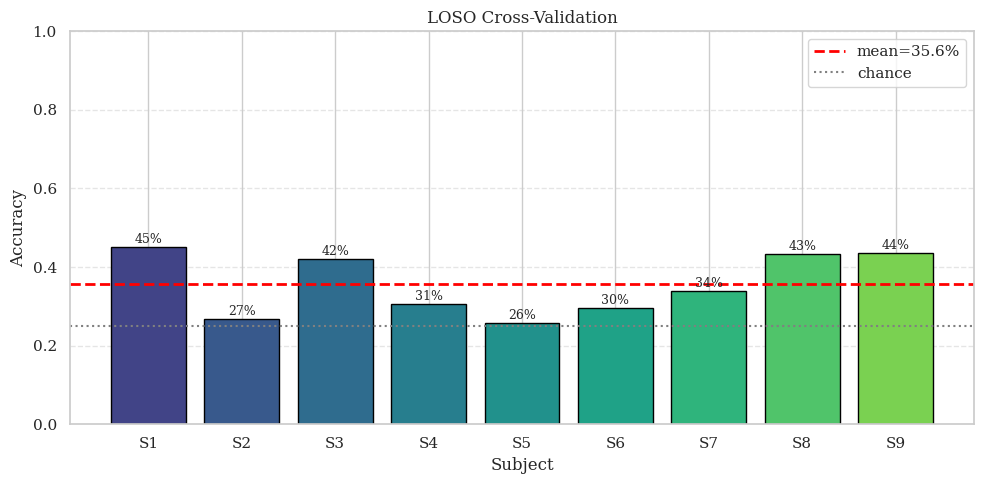
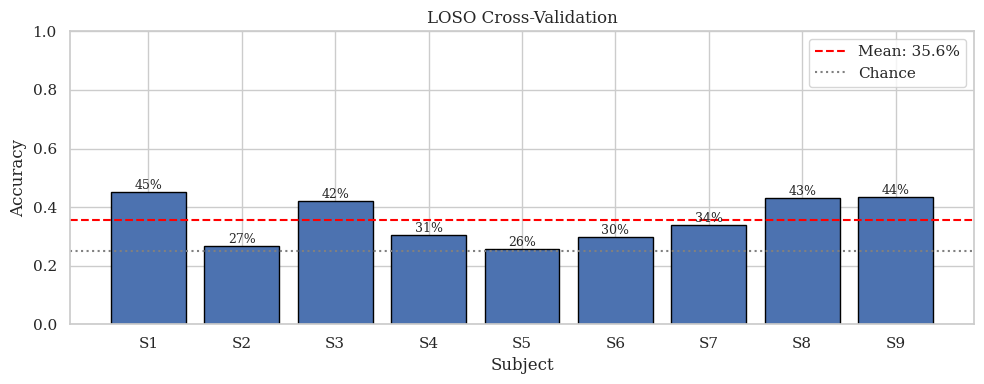
clean up the code and change pngs

diff --git a/main.py b/main.py
@@ -1,90 +1,88 @@
-"""
-Riemannian Motor Imagery Decoder - 4-class EEG classification
-BNCI2014_001 dataset, Tangent Space + LogReg
-"""
-
 import numpy as np
 import matplotlib.pyplot as plt
 import seaborn as sns
-import warnings
 from sklearn.pipeline import make_pipeline
 from sklearn.linear_model import LogisticRegression
-from sklearn.model_selection import train_test_split, cross_val_score, GridSearchCV
-from sklearn.metrics import (accuracy_score, confusion_matrix, classification_report,
-                             roc_auc_score, roc_curve, auc)
-from sklearn.preprocessing import LabelEncoder, StandardScaler, label_binarize
-from sklearn.base import BaseEstimator, TransformerMixin
-from sklearn.decomposition import PCA
+from sklearn.model_selection import train_test_split, GridSearchCV
+from sklearn.metrics import accuracy_score, confusion_matrix, roc_auc_score, roc_curve, auc
+from sklearn.preprocessing import LabelEncoder, StandardScaler, label_binarize, FunctionTransformer
 from moabb.datasets import BNCI2014_001
 from moabb.paradigms import MotorImagery
 from pyriemann.estimation import Covariances
 from pyriemann.tangentspace import TangentSpace
 
-warnings.filterwarnings("ignore")
+# Config
+SUBJECT_ID = 1
+TEST_SIZE = 0.2
+CV_FOLDS = 5
+C_GRID = [0.1, 1, 10, 100]
 
 
-class RawVector(BaseEstimator, TransformerMixin):
-    """Flatten trials for baseline"""
-    def fit(self, X, y=None): return self
-    def transform(self, X): return X.reshape(X.shape[0], -1)
+def get_baseline_pipeline():
+    """Euclidean baseline: flatten -> scale -> LR"""
+    return make_pipeline(
+        FunctionTransformer(lambda x: x.reshape(x.shape[0], -1)),
+        StandardScaler(),
+        LogisticRegression(max_iter=2000)
+    )
 
 
-def load_subject(subj_id):
+def get_riemann_pipeline():
+    """Riemannian: cov -> tangent space -> LR
+    OAS: shrinkage estimator, stable for high-dim EEG with limited samples
+    """
+    return make_pipeline(
+        Covariances(estimator='oas'),
+        TangentSpace(metric='riemann'),
+        LogisticRegression(max_iter=2000)
+    )
+
+
+def load_data(subj):
     dataset = BNCI2014_001()
     paradigm = MotorImagery(n_classes=4)
-    X, y, meta = paradigm.get_data(dataset=dataset, subjects=[subj_id])
+    X, y, meta = paradigm.get_data(dataset=dataset, subjects=[subj])
     le = LabelEncoder()
     return X, le.fit_transform(y), le.classes_, meta
 
 
-def eval_single(subj_id=1, test_size=0.2):
-    print(f"\n=== Subject {subj_id} ===")
+def run_single(subj):
+    print(f"\n--- Subject {subj} ---")
     
-    X, y, classes, _ = load_subject(subj_id)
-    X_tr, X_te, y_tr, y_te = train_test_split(X, y, test_size=test_size, 
-                                               random_state=42, stratify=y)
-    print(f"train: {len(y_tr)}, test: {len(y_te)}")
+    X, y, classes, _ = load_data(subj)
+    X_tr, X_te, y_tr, y_te = train_test_split(
+        X, y, test_size=TEST_SIZE, random_state=42, stratify=y
+    )
     
     # baseline
-    base = make_pipeline(RawVector(), StandardScaler(), 
-                         LogisticRegression(max_iter=2000))
-    grid_b = GridSearchCV(base, {'logisticregression__C': [0.1, 1, 10, 100]}, 
-                          cv=3, n_jobs=-1)
+    grid_b = GridSearchCV(get_baseline_pipeline(), 
+                          {'logisticregression__C': C_GRID}, cv=CV_FOLDS, n_jobs=-1)
     grid_b.fit(X_tr, y_tr)
     
     # riemannian
-    rie = make_pipeline(Covariances(), TangentSpace(metric='riemann'),
-                        LogisticRegression(max_iter=2000))
-    grid_r = GridSearchCV(rie, {
-        'covariances__estimator': ['oas', 'lwf', 'scm'],
-        'logisticregression__C': [0.1, 1, 10, 100]
-    }, cv=3, n_jobs=-1)
+    grid_r = GridSearchCV(get_riemann_pipeline(), 
+                          {'logisticregression__C': C_GRID}, cv=CV_FOLDS, n_jobs=-1)
     grid_r.fit(X_tr, y_tr)
     
-    # cv scores
-    cv_b = cross_val_score(grid_b.best_estimator_, X_tr, y_tr, cv=5)
-    cv_r = cross_val_score(grid_r.best_estimator_, X_tr, y_tr, cv=5)
-    print(f"CV - base: {cv_b.mean():.1%}, rie: {cv_r.mean():.1%}")
-    
     # test
-    pred_b = grid_b.predict(X_te)
     pred_r = grid_r.predict(X_te)
     prob_r = grid_r.predict_proba(X_te)
+    acc_b = accuracy_score(y_te, grid_b.predict(X_te))
+    acc_r = accuracy_score(y_te, pred_r)
     
-    acc_b, acc_r = accuracy_score(y_te, pred_b), accuracy_score(y_te, pred_r)
     y_bin = label_binarize(y_te, classes=range(len(classes)))
-    auc_m = roc_auc_score(y_bin, prob_r, multi_class='ovr', average='macro')
+    auc_score = roc_auc_score(y_bin, prob_r, multi_class='ovr', average='macro')
     
-    print(f"Test - base: {acc_b:.1%}, rie: {acc_r:.1%}, AUC: {auc_m:.3f}")
-    print(classification_report(y_te, pred_r, target_names=classes))
+    print(f"Test: base={acc_b:.1%}, rie={acc_r:.1%}, AUC={auc_score:.3f}")
     
-    return dict(classes=classes, y_te=y_te, pred=pred_r, prob=prob_r,
-                cv_b=cv_b, cv_r=cv_r, acc_b=acc_b, acc_r=acc_r, 
-                auc=auc_m, model=grid_r, X_te=X_te)
+    return {
+        'classes': classes, 'y_te': y_te, 'pred': pred_r, 'prob': prob_r,
+        'acc_b': acc_b, 'acc_r': acc_r, 'auc': auc_score
+    }
 
 
-def eval_loso(subjs=range(1,10)):
-    print("\n=== LOSO ===")
+def run_loso(subjs=range(1, 10)):
+    print("\n--- LOSO ---")
     
     dataset = BNCI2014_001()
     paradigm = MotorImagery(n_classes=4)
@@ -92,151 +90,91 @@ def eval_loso(subjs=range(1,10)):
     
     le = LabelEncoder()
     y = le.fit_transform(y)
-    subj_ids = meta['subject'].values
+    sids = meta['subject'].values
     
     accs = []
     for s in subjs:
-        mask = subj_ids == s
-        X_tr, X_te = X[~mask], X[mask]
-        y_tr, y_te = y[~mask], y[mask]
-        
-        clf = make_pipeline(Covariances(estimator='oas'),
-                           TangentSpace(metric='riemann'),
-                           LogisticRegression(C=1.0, max_iter=2000))
-        clf.fit(X_tr, y_tr)
-        acc = accuracy_score(y_te, clf.predict(X_te))
+        mask = sids == s
+        clf = get_riemann_pipeline()
+        clf.set_params(logisticregression__C=1.0)
+        clf.fit(X[~mask], y[~mask])
+        acc = accuracy_score(y[mask], clf.predict(X[mask]))
         accs.append(acc)
         print(f"  S{s}: {acc:.1%}")
     
-    print(f"Mean: {np.mean(accs):.1%} ± {np.std(accs):.1%}")
+    print(f"Mean: {np.mean(accs):.1%} +/- {np.std(accs):.1%}")
     return list(subjs), accs
 
 
-def plot_all(res, save='results.png'):
-    fig, axes = plt.subplots(2, 3, figsize=(18, 10))
+def plot_results(res, subj):
     classes = res['classes']
-    n_cls = len(classes)
+    fig, axes = plt.subplots(1, 3, figsize=(15, 4))
     
-    # cv comparison
-    ax = axes[0,0]
-    bp = ax.boxplot([res['cv_b'], res['cv_r']], patch_artist=True,
-                    labels=['Baseline', 'Riemannian'])
-    bp['boxes'][0].set_facecolor('lightgray')
-    bp['boxes'][1].set_facecolor('#4c72b0')
-    ax.axhline(0.25, color='r', ls='--', label='chance')
+    # 1. Bar plot: Baseline vs Riemannian
+    ax = axes[0]
+    methods = ['Baseline', 'Riemannian']
+    accs = [res['acc_b'], res['acc_r']]
+    bars = ax.bar(methods, accs, color=['lightgray', '#4c72b0'], edgecolor='k')
+    ax.axhline(0.25, c='r', ls='--', label='Chance')
+    ax.set_ylim(0, 1)
     ax.set_ylabel('Accuracy')
-    ax.set_title('CV Comparison')
-    ax.legend()
-    ax.grid(axis='y', ls='--', alpha=0.5)
+    ax.set_title(f'Method Comparison (S{subj})')
+    for bar, acc in zip(bars, accs):
+        ax.text(bar.get_x() + bar.get_width()/2, acc + 0.02, f'{acc:.1%}', ha='center')
     
-    # confusion
-    ax = axes[0,1]
-    cm = confusion_matrix(res['y_te'], res['pred'])
-    sns.heatmap(cm, annot=True, fmt='d', cmap='Blues', cbar=False,
-                xticklabels=classes, yticklabels=classes, ax=ax)
-    ax.set_title(f"Confusion (acc={res['acc_r']:.1%})")
-    ax.set_ylabel('Actual')
+    # 2. Confusion matrix
+    ax = axes[1]
+    sns.heatmap(confusion_matrix(res['y_te'], res['pred']), annot=True, fmt='d',
+                xticklabels=classes, yticklabels=classes, ax=ax, cmap='Blues')
+    ax.set_title('Confusion Matrix')
+    ax.set_ylabel('True')
     ax.set_xlabel('Predicted')
     
-    # roc
-    ax = axes[0,2]
-    y_bin = label_binarize(res['y_te'], classes=range(n_cls))
+    # 3. ROC
+    ax = axes[2]
+    y_bin = label_binarize(res['y_te'], classes=range(len(classes)))
     for i, c in enumerate(classes):
-        fpr, tpr, _ = roc_curve(y_bin[:,i], res['prob'][:,i])
-        ax.plot(fpr, tpr, lw=2, label=f'{c} ({auc(fpr,tpr):.2f})')
-    ax.plot([0,1], [0,1], 'k--')
+        fpr, tpr, _ = roc_curve(y_bin[:, i], res['prob'][:, i])
+        ax.plot(fpr, tpr, lw=2, label=f'{c} ({auc(fpr, tpr):.2f})')
+    ax.plot([0, 1], [0, 1], 'k--')
     ax.set_xlabel('FPR')
     ax.set_ylabel('TPR')
-    ax.set_title(f'ROC (macro={res["auc"]:.2f})')
-    ax.legend(loc='lower right', fontsize=8)
-    ax.grid(ls='--', alpha=0.5)
-    
-    # tangent pca
-    ax = axes[1,0]
-    est = res['model'].best_params_['covariances__estimator']
-    cov = Covariances(estimator=est).fit_transform(res['X_te'])
-    tang = TangentSpace(metric='riemann').fit_transform(cov)
-    pca = PCA(n_components=2)
-    X_pca = pca.fit_transform(tang)
-    sc = ax.scatter(X_pca[:,0], X_pca[:,1], c=res['y_te'], cmap='viridis', 
-                    alpha=0.7, edgecolor='k', s=50)
-    ax.set_title(f'Tangent PCA ({sum(pca.explained_variance_ratio_):.0%})')
-    ax.set_xlabel(f'PC1')
-    ax.set_ylabel(f'PC2')
-    ax.legend(*sc.legend_elements(), title='Class')
-    
-    # gridsearch
-    ax = axes[1,1]
-    cv_res = res['model'].cv_results_
-    Cs = [0.1, 1, 10, 100]
-    for est in ['oas', 'lwf', 'scm']:
-        scores = []
-        for c in Cs:
-            idx = [i for i,p in enumerate(cv_res['params']) 
-                   if p['covariances__estimator']==est and p['logisticregression__C']==c][0]
-            scores.append(cv_res['mean_test_score'][idx])
-        ax.plot(range(len(Cs)), scores, 'o-', label=est, lw=2)
-    ax.set_xticks(range(len(Cs)))
-    ax.set_xticklabels(Cs)
-    ax.set_xlabel('C')
-    ax.set_ylabel('CV Acc')
-    ax.set_title('Hyperparam Search')
-    ax.legend()
-    ax.grid(ls='--', alpha=0.5)
-    
-    # per-class
-    ax = axes[1,2]
-    rep = classification_report(res['y_te'], res['pred'], 
-                                target_names=classes, output_dict=True)
-    x = np.arange(n_cls)
-    w = 0.25
-    for i, m in enumerate(['precision', 'recall', 'f1-score']):
-        vals = [rep[c][m] for c in classes]
-        ax.bar(x + i*w, vals, w, label=m)
-    ax.set_xticks(x + w)
-    ax.set_xticklabels(classes, rotation=30)
-    ax.set_ylabel('Score')
-    ax.set_title('Per-Class')
-    ax.legend()
-    ax.set_ylim(0, 1)
+    ax.legend(fontsize=8)
+    ax.set_title(f'ROC (AUC={res["auc"]:.2f})')
     
     plt.tight_layout()
-    plt.savefig(save, dpi=150)
+    plt.savefig('results.png', dpi=150)
     plt.show()
 
 
-def plot_loso(subjs, accs, save='loso.png'):
-    plt.figure(figsize=(10, 5))
-    colors = plt.cm.viridis(np.linspace(0.2, 0.8, len(subjs)))
-    bars = plt.bar(subjs, accs, color=colors, edgecolor='k')
-    
+def plot_loso(subjs, accs):
     mean_acc = np.mean(accs)
-    plt.axhline(mean_acc, color='r', ls='--', lw=2, label=f'mean={mean_acc:.1%}')
-    plt.axhline(0.25, color='gray', ls=':', label='chance')
     
-    for b, a in zip(bars, accs):
-        plt.text(b.get_x() + b.get_width()/2, a + 0.01, f'{a:.0%}', 
-                 ha='center', fontsize=9)
+    plt.figure(figsize=(10, 4))
+    plt.bar(subjs, accs, color='#4c72b0', edgecolor='k')
+    plt.axhline(mean_acc, c='r', ls='--', label=f'Mean: {mean_acc:.1%}')
+    plt.axhline(0.25, c='gray', ls=':', label='Chance')
+    
+    for s, a in zip(subjs, accs):
+        plt.text(s, a + 0.01, f'{a:.0%}', ha='center', fontsize=9)
     
     plt.xlabel('Subject')
     plt.ylabel('Accuracy')
     plt.title('LOSO Cross-Validation')
     plt.xticks(subjs, [f'S{s}' for s in subjs])
     plt.legend()
-    plt.grid(axis='y', ls='--', alpha=0.5)
     plt.ylim(0, 1)
     plt.tight_layout()
-    plt.savefig(save, dpi=150)
+    plt.savefig('loso.png', dpi=150)
     plt.show()
 
 
 if __name__ == "__main__":
-    res = eval_single(subj_id=1)
-    plot_all(res)
+    res = run_single(SUBJECT_ID)
+    plot_results(res, SUBJECT_ID)
     
-    subjs, accs = eval_loso()
+    subjs, accs = run_loso()
     plot_loso(subjs, accs)
     
-    print(f"\n--- Summary ---")
-    print(f"S1: {res['acc_r']:.1%} (AUC={res['auc']:.3f})")
+    print(f"\nS{SUBJECT_ID}: {res['acc_r']:.1%} (AUC={res['auc']:.3f})")
     print(f"LOSO: {np.mean(accs):.1%}")
